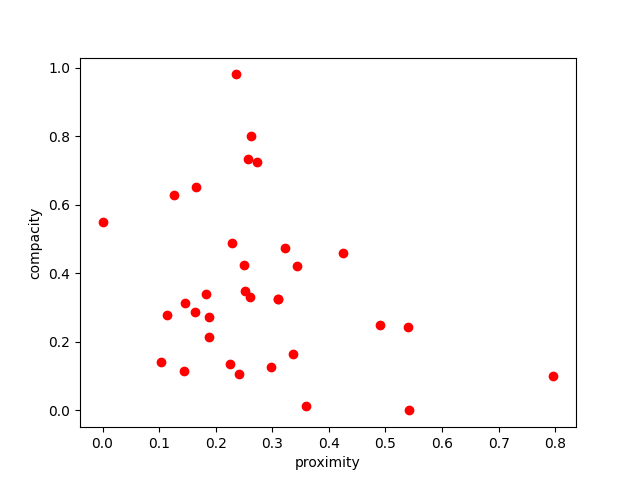
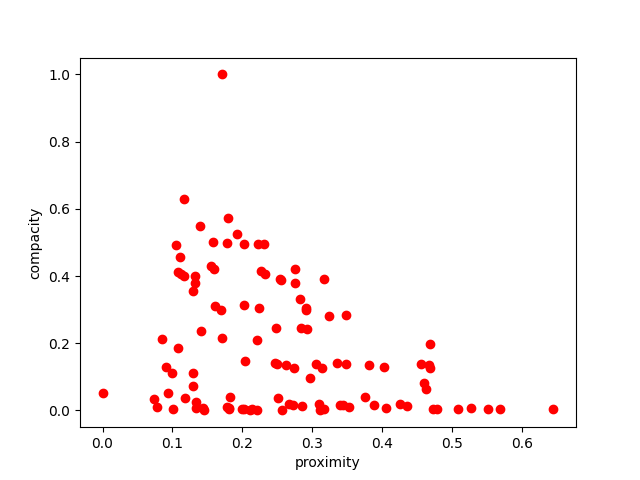
fix selection

diff --git a/main.py b/main.py
@@ -149,11 +149,12 @@ def plot_pareto(population, populatio=None):
     ax = fig.add_subplot(111, projection='3d')
     fig.canvas.manager.set_window_title("Pareto Graph")
 
-    ax.scatter([0], [0], [0], c='g', picker=True, pickradius=5)
+    # ax.scatter([0], [0], [0], c='g', picker=True, pickradius=5)
     ax.scatter([s[1] for s in population_avec_score_normalise], [s[2] for s in population_avec_score_normalise],
                [s[3] for s in population_avec_score_normalise], c='b', picker=True, pickradius=0.1)
-    ax.scatter(pareto_compacite, pareto_proximite, pareto_production, c='r', picker=True, pickradius=0.1)
-    ax.legend()
+    ax.scatter([s[1] for s in pareto_frontier], [s[2] for s in pareto_frontier], [s[3] for s in pareto_frontier], c='r',
+               picker=True, pickradius=0.1)
+    # ax.legend()
     ax.set_xlabel("Compacité")
     ax.set_xlim(0, 1)
     ax.set_ylabel("Proximité")
@@ -180,6 +181,7 @@ def onpick(event, normalise):
     solution = normalise[ind[0]][0]
     print(solution)
     plot_solution(solution)
+
 
 def create_2D_projection_image(scores, pareto_scores):
     names = ["compacity", "proximity", "production"]
@@ -335,6 +337,14 @@ def reproduction2(parent1, parent2):
     if not child1 or not child2:
         print('probleme reprodcution 2')
         return None, None
+    while cost_bought_plot(child1) > BUDGET:
+        child1.pop()
+    while cost_bought_plot(child2) > BUDGET:
+        child2.pop()
+    while cost_bought_plot(child1) < BUDGET - 80000:
+        child1.append((random.randint(0, 69), random.randint(0, 169)))
+    while cost_bought_plot(child2) < BUDGET - 80000:
+        child2.append((random.randint(0, 69), random.randint(0, 169)))
     return list(set(child1)), list(set(child2))
 
 
@@ -344,20 +354,24 @@ def reproduction_population(population):
     Args:
         population: set of solutions
     """
-    for i in range(0, len(population), 2):
+    for i in range(0, len(population) - 10, 2):
         # Selection of the parents
         random1 = random.randint(0, len(population) - 1)
         random2 = random.randint(0, len(population) - 1)
         while random1 == random2:
             random2 = random.randint(0, len(population) - 1)
+
         parent1 = population[random1]
         parent2 = population[random2]
         # Generation of two children
         child1, child2 = reproduction2(parent1, parent2)
-        if child1 is not None and child2 is not None:
+
+
+        if child1 is not None and child2 is not None :
             population.append(child1)
             population.append(child2)
-    return population
+        return population
+
 
 
 def mutation_population(population):
@@ -385,6 +399,8 @@ def mutation_population(population):
                 if cost_bought_plot(solution) > BUDGET:
                     solution.pop(random.randint(0, len(solution) - 1))
     return population
+
+
 def mutation_and_reproduciton_population(population):
     nouvelle_solution_mutee = []
     for solution in population:
@@ -434,23 +450,32 @@ def selection(population, population_size):
 
 
 def selection2(population, population_size):
+    population_without_doubles = []
+    for solution in population:
+        if solution not in population_without_doubles:
+            population_without_doubles.append(solution)
+    population = population_without_doubles
+
     pop_avec_norm_score = population_with_normalized_score(population)
 
+
+
+
     # Supprimer solutions doublons
-    for sol1_ac_score in pop_avec_norm_score:
-        for sol2_ac_score in pop_avec_norm_score:
-            # Check si les deux solutions sont différentes et que les scores sont très proches
-            difference_compacite = abs(sol1_ac_score[1] - sol2_ac_score[1])
-            difference_proximite = abs(sol1_ac_score[2] - sol2_ac_score[2])
-            difference_production = abs(sol1_ac_score[3] - sol2_ac_score[3])
+    #for sol1_ac_score in pop_avec_norm_score:
+    #for sol2_ac_score in pop_avec_norm_score:
 
-            if sol1_ac_score != sol2_ac_score and difference_compacite < 0.05 \
-                    and difference_proximite < 0.05 \
-                    and difference_production < 0.05:
-                pop_avec_norm_score.remove(sol1_ac_score)
-                break
-
+    """# Check si les deux solutions sont différentes et que les scores sont très proches
+    difference_compacite = abs(sol1_ac_score[1] - sol2_ac_score[1])
+    difference_proximite = abs(sol1_ac_score[2] - sol2_ac_score[2])
+    difference_production = abs(sol1_ac_score[3] - sol2_ac_score[3])
+    if sol1_ac_score != sol2_ac_score and difference_compacite < 0.05 \
+            and difference_proximite < 0.05 \
+            and difference_production < 0.05:
+        pop_avec_norm_score.remove(sol1_ac_score)
+        break"""
     filtered_population = [solution[0] for solution in pop_avec_norm_score]
+
 
     # Ajouter des solutions aléatoire pour avoir la bonne taille
     while len(filtered_population) < population_size:
@@ -504,7 +529,6 @@ def genetic_algorithm(initial_population_size, iteration):
         nouvelle_population = reproduction_population(nouvelle_population)
         nouvelle_population = mutation_and_reproduciton_population(nouvelle_population)
         nouvelle_population = selection2(nouvelle_population, initial_population_size)
-    print(nouvelle_population)
     print(" Solution Cost: € {:,}".format(
         cost_bought_plot(nouvelle_population[0])))
     plot_solution(nouvelle_population[0])
@@ -663,7 +687,7 @@ if __name__ == "__main__":
     """2: INITIAL POPULATION """
 
     # Generate initial population randomly ⇾ cover as much as possible the solution space
-    population_amelioree = genetic_algorithm(100, 100)
+    population_amelioree = genetic_algorithm(500, 300)
 
     # Determine the dominant solutions
     # Plot the frontier and generate csv files
